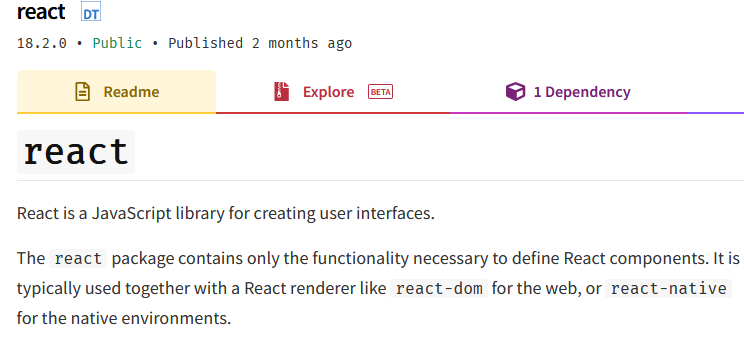
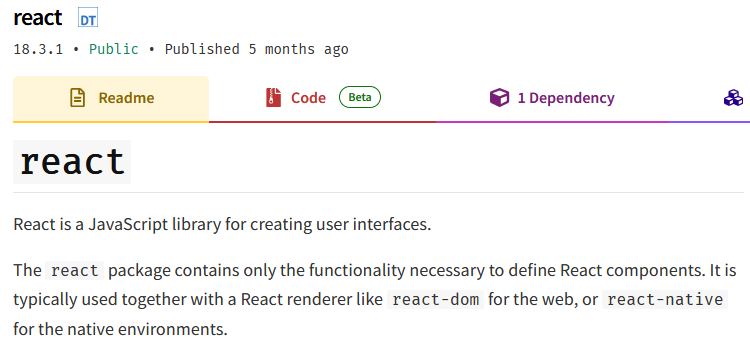
update start
update

diff --git a/Block_REACT/section_1/react_intro.md b/Block_REACT/section_1/react_intro.md
@@ -32,7 +32,7 @@ These javasript libraries are drawn from a Content Delivery Network namned [unpk
 
 This provides a rapid download of packages which are held on the node package manager (NPM) site.
 
-Following the link https://unpkg.com/react@18/umd/react.development.js in a browser reveals the react javascript code from the latest version of the library to be supported in this way.  In this case version 18.2.0.
+Following the link https://unpkg.com/react@18/umd/react.development.js in a browser reveals the react javascript code from the latest version of the library to be supported in this way.  In this case version 18.3.1.
 
 ```javascript
 /**
@@ -50,7 +50,7 @@ Following the link https://unpkg.com/react@18/umd/react.development.js in a brow
   (global = global || self, factory(global.React = {}));
 }(this, (function (exports) { 'use strict';
 
-  var ReactVersion = '18.2.0';
+  var ReactVersion = '18.3.1';
 
   // ATTENTION
   // When adding new symbols to this file,
@@ -75,6 +75,15 @@ Following the link https://unpkg.com/react@18/umd/react.development.js in a brow
     if (maybeIterable === null || typeof maybeIterable !== 'object') {
       return null;
     }
+
+    var maybeIterator = MAYBE_ITERATOR_SYMBOL && maybeIterable[MAYBE_ITERATOR_SYMBOL] || maybeIterable[FAUX_ITERATOR_SYMBOL];
+
+    if (typeof maybeIterator === 'function') {
+      return maybeIterator;
+    }
+
+    return null;
+  }
 ...
 ```
 

diff --git a/Block_REACT/_sidebar.md b/Block_REACT/_sidebar.md
@@ -6,6 +6,7 @@
 * [Introducing React](Block_REACT/section_1/react_intro.md)
 * [React Components](Block_REACT/section_2/components.md)
 * [Maintaining State](Block_REACT/section_3/maintainingState.md)
+<!--* 
 * [Challenge solution 1](Block_REACT/section_3/maintainingStateChallengeFunction.md)
 * [Class components](Block_REACT/section_4/classComponents.md)
 * [Challenge solution 2](Block_REACT/section_4/maintainingStateChallengeClass.md)
